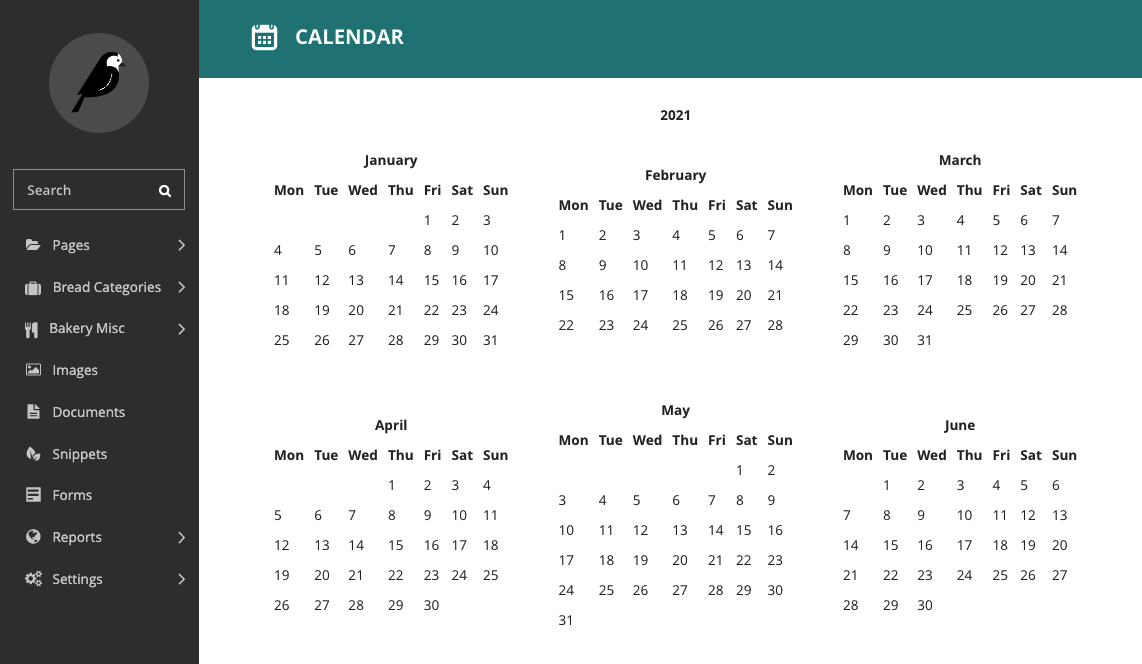
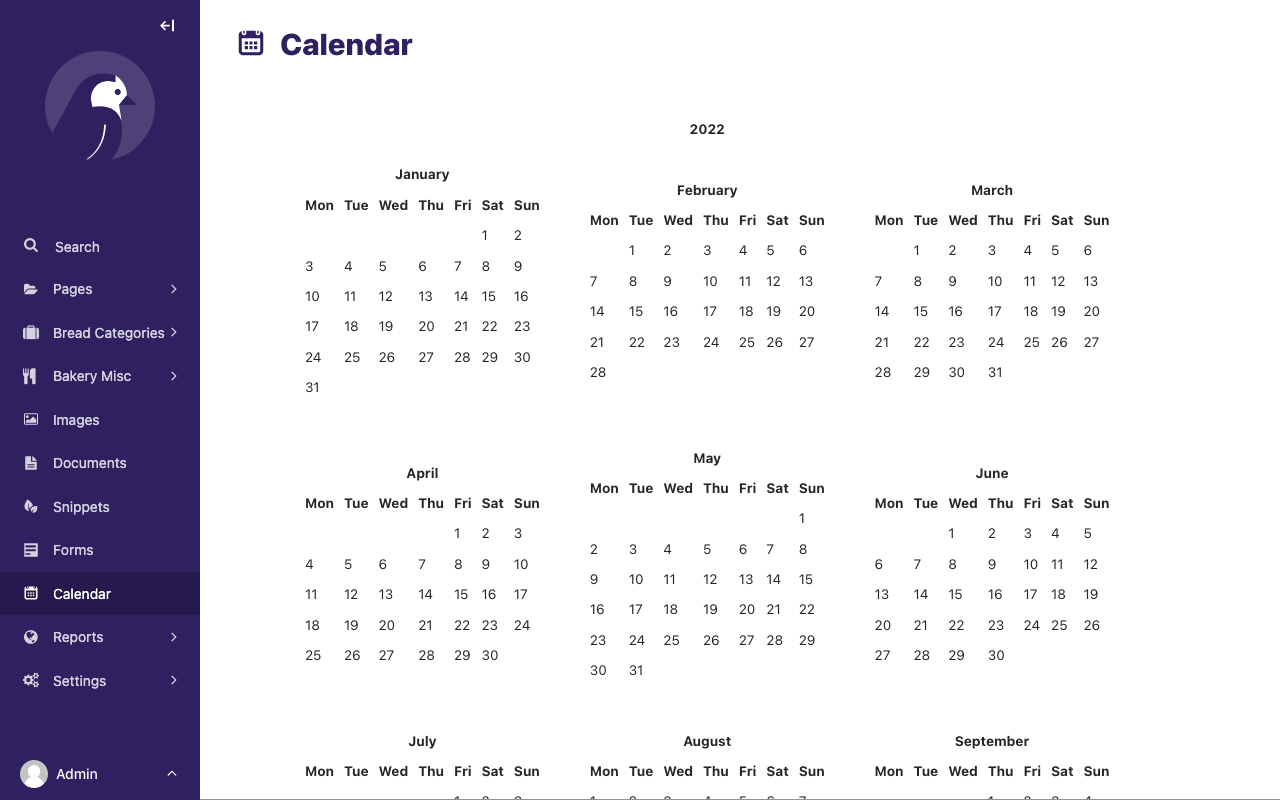
Update all documentation images except editor manual

diff --git a/docs/extending/admin_views.md b/docs/extending/admin_views.md
@@ -142,11 +142,10 @@ A 'Calendar' item will now appear in the menu.
 Sometimes you want to group custom views together in a single menu item in the sidebar. Let's create another view to display only the current calendar month:
 
 ```{code-block} python
-:emphasize-lines: 13-18
+:emphasize-lines: 15-23
 
 import calendar
-
-from django.http import HttpResponse
+from django.shortcuts import render
 from django.utils import timezone
 
 
@@ -154,14 +153,20 @@ def index(request):
     current_year = timezone.now().year
     calendar_html = calendar.HTMLCalendar().formatyear(current_year)
 
-    return HttpResponse(calendar_html)
+    return render(request, 'wagtailcalendar/index.html', {
+        'current_year': current_year,
+        'calendar_html': calendar_html,
+    })
 
 def month(request):
     current_year = timezone.now().year
     current_month = timezone.now().month
     calendar_html = calendar.HTMLCalendar().formatmonth(current_year, current_month)
 
-    return HttpResponse(calendar_html)
+    return render(request, 'wagtailcalendar/index.html', {
+        'current_year': current_year,
+        'calendar_html': calendar_html,
+    })
 ```
 
 We also need to update `wagtail_hooks.py` to register our URL in the admin interface:
@@ -216,13 +221,9 @@ def register_calendar_menu_item():
         MenuItem('Current month', reverse('calendar-month'), icon_name='date'),
     ])
 
-    return SubmenuMenuItem('Calendar', submenu, classnames='icon icon-date')
+    return SubmenuMenuItem('Calendar', submenu, icon_name='date')
 ```
 
-The 'Calendar' item will now appear as a group of menu items.
+The 'Calendar' item will now appear as a group of menu items. When expanded, the 'Calendar' item will now show our two custom menu items.
 
-![Wagtail admin sidebar menu, showing a "Calendar" group menu item with a date icon](../_static/images/adminviews_menu_group.png)
-
-When expanded, the 'Calendar' item will now show our two custom menu items.
-
-![Wagtail admin sidebar 'Calendar' menu expaned, showing two child menu items, 'Calendar' and 'Month'.](../_static/images/adminviews_menu_group_expanded.png)
+![Wagtail admin sidebar menu, showing an expanded "Calendar" group menu item with a date icon, showing two child menu items, 'Calendar' and 'Month'.](../_static/images/adminviews_menu_group_expanded.png)
